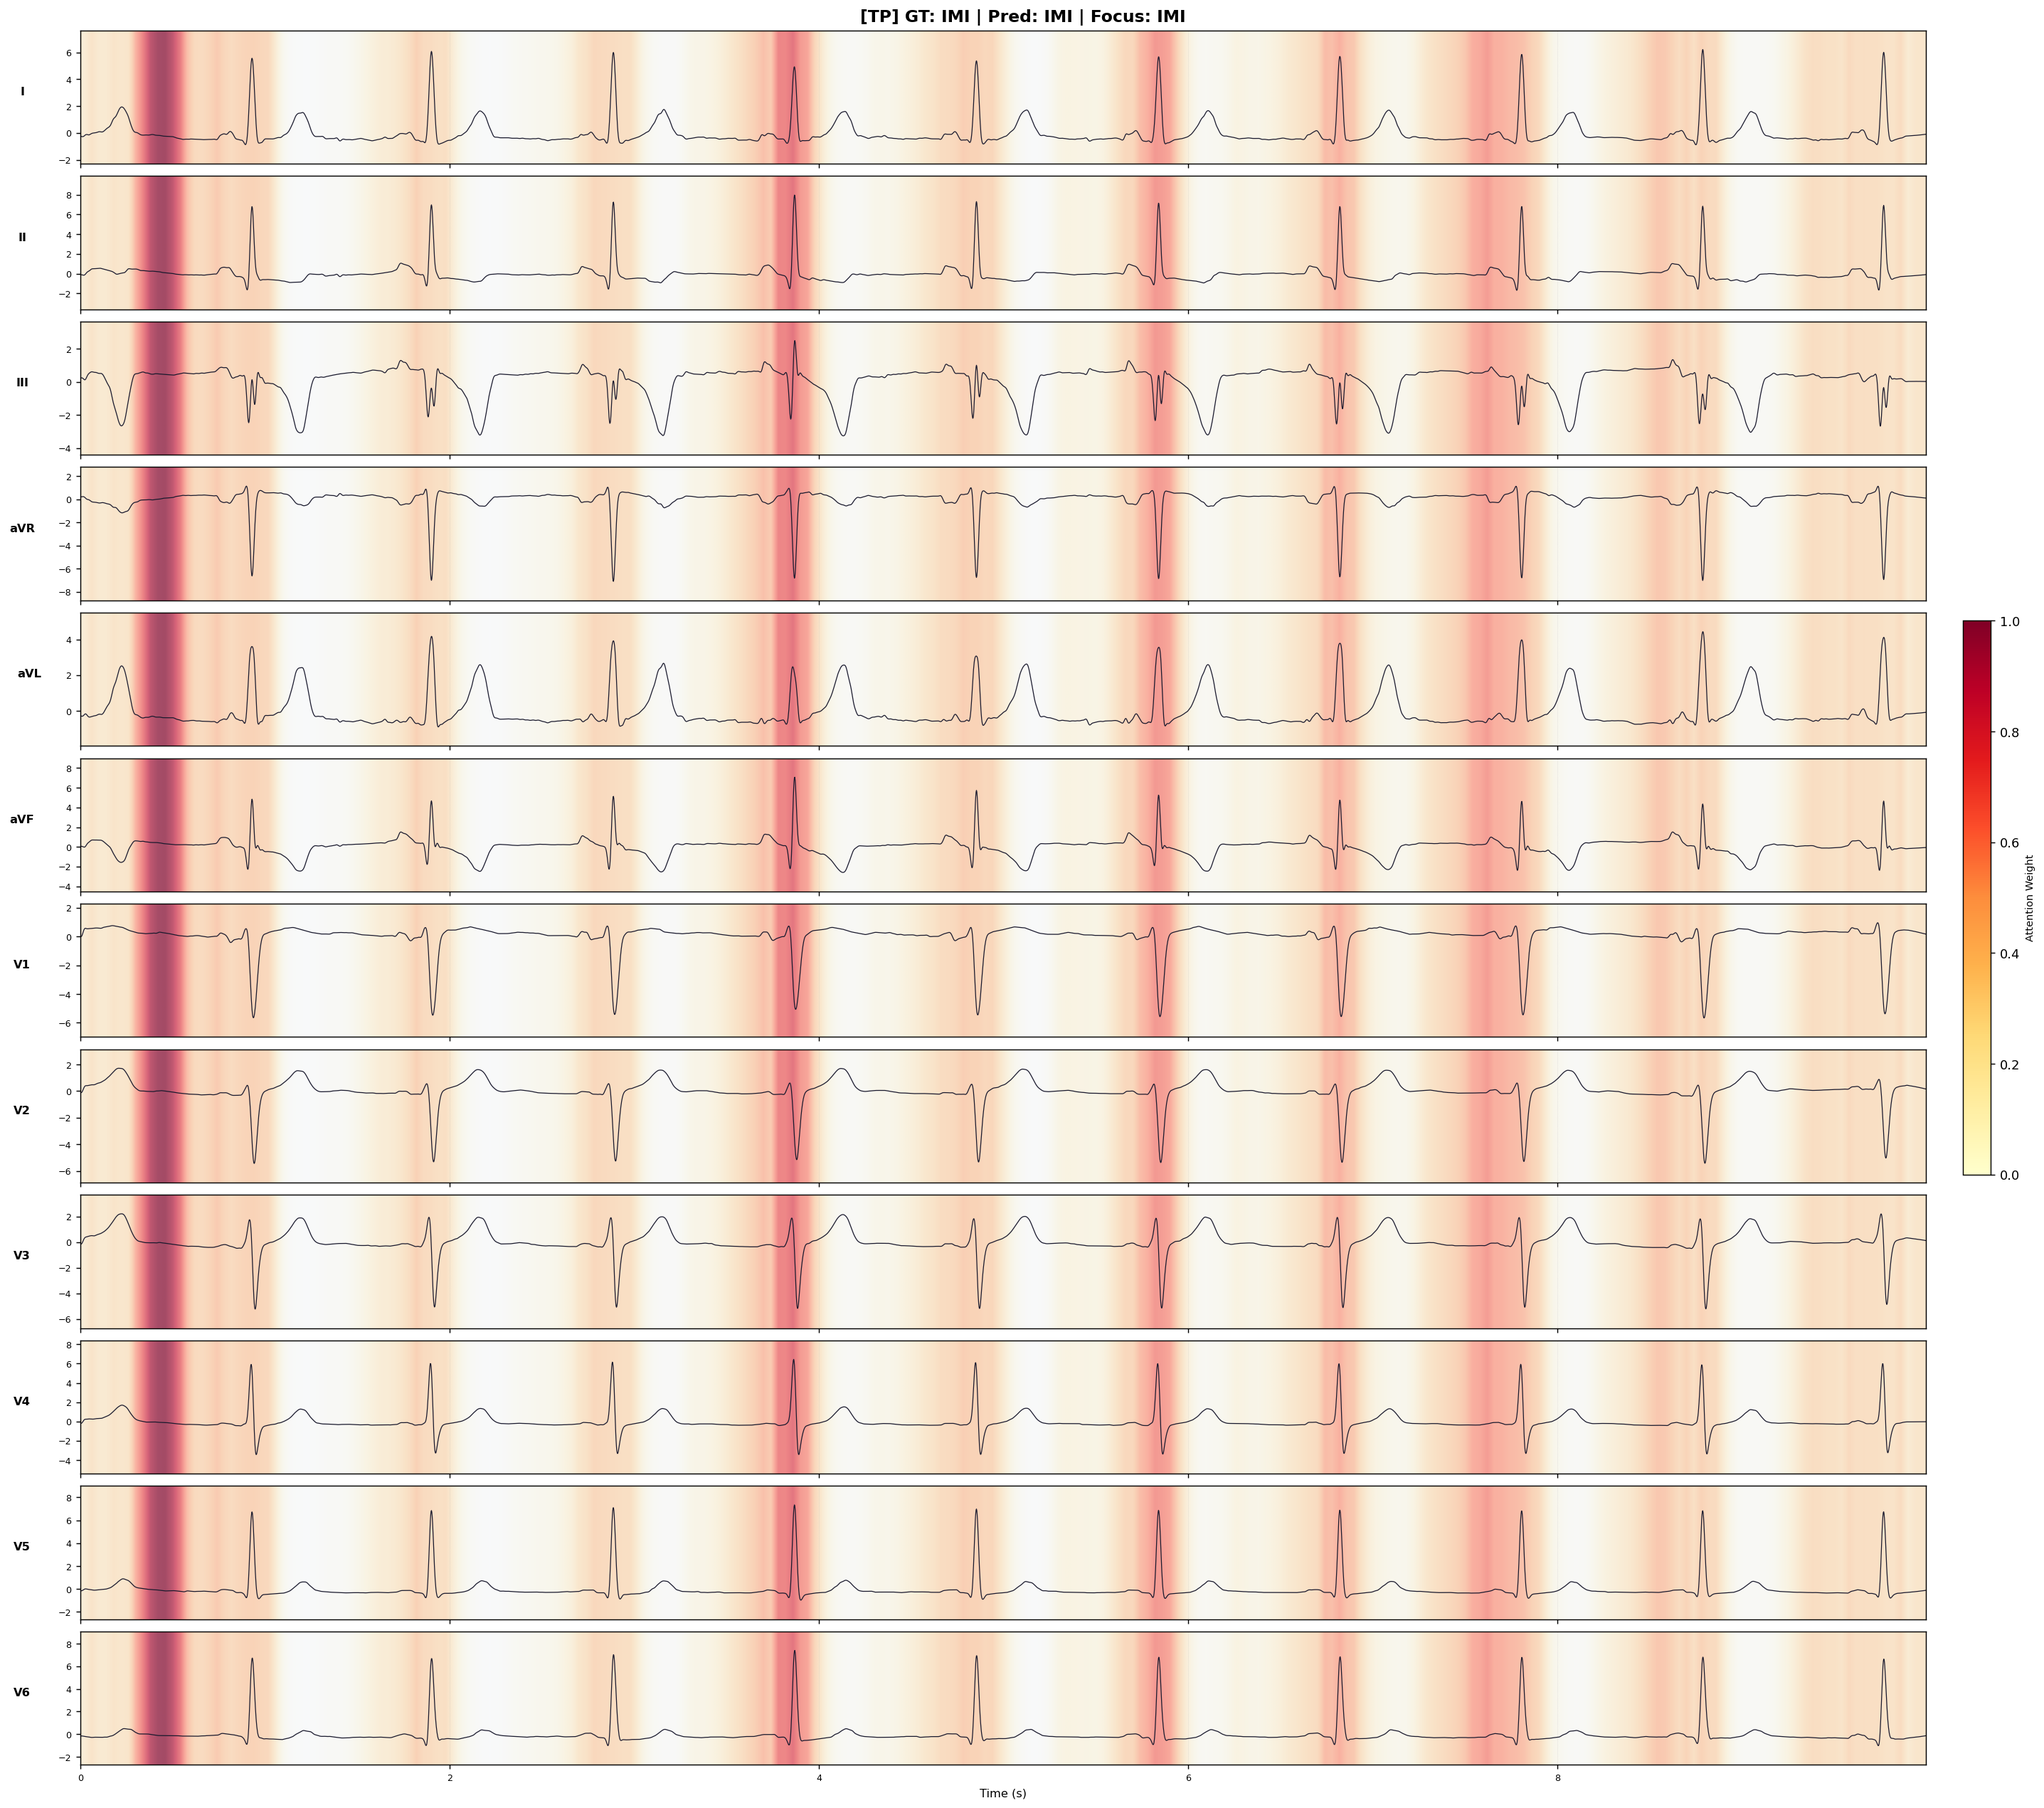
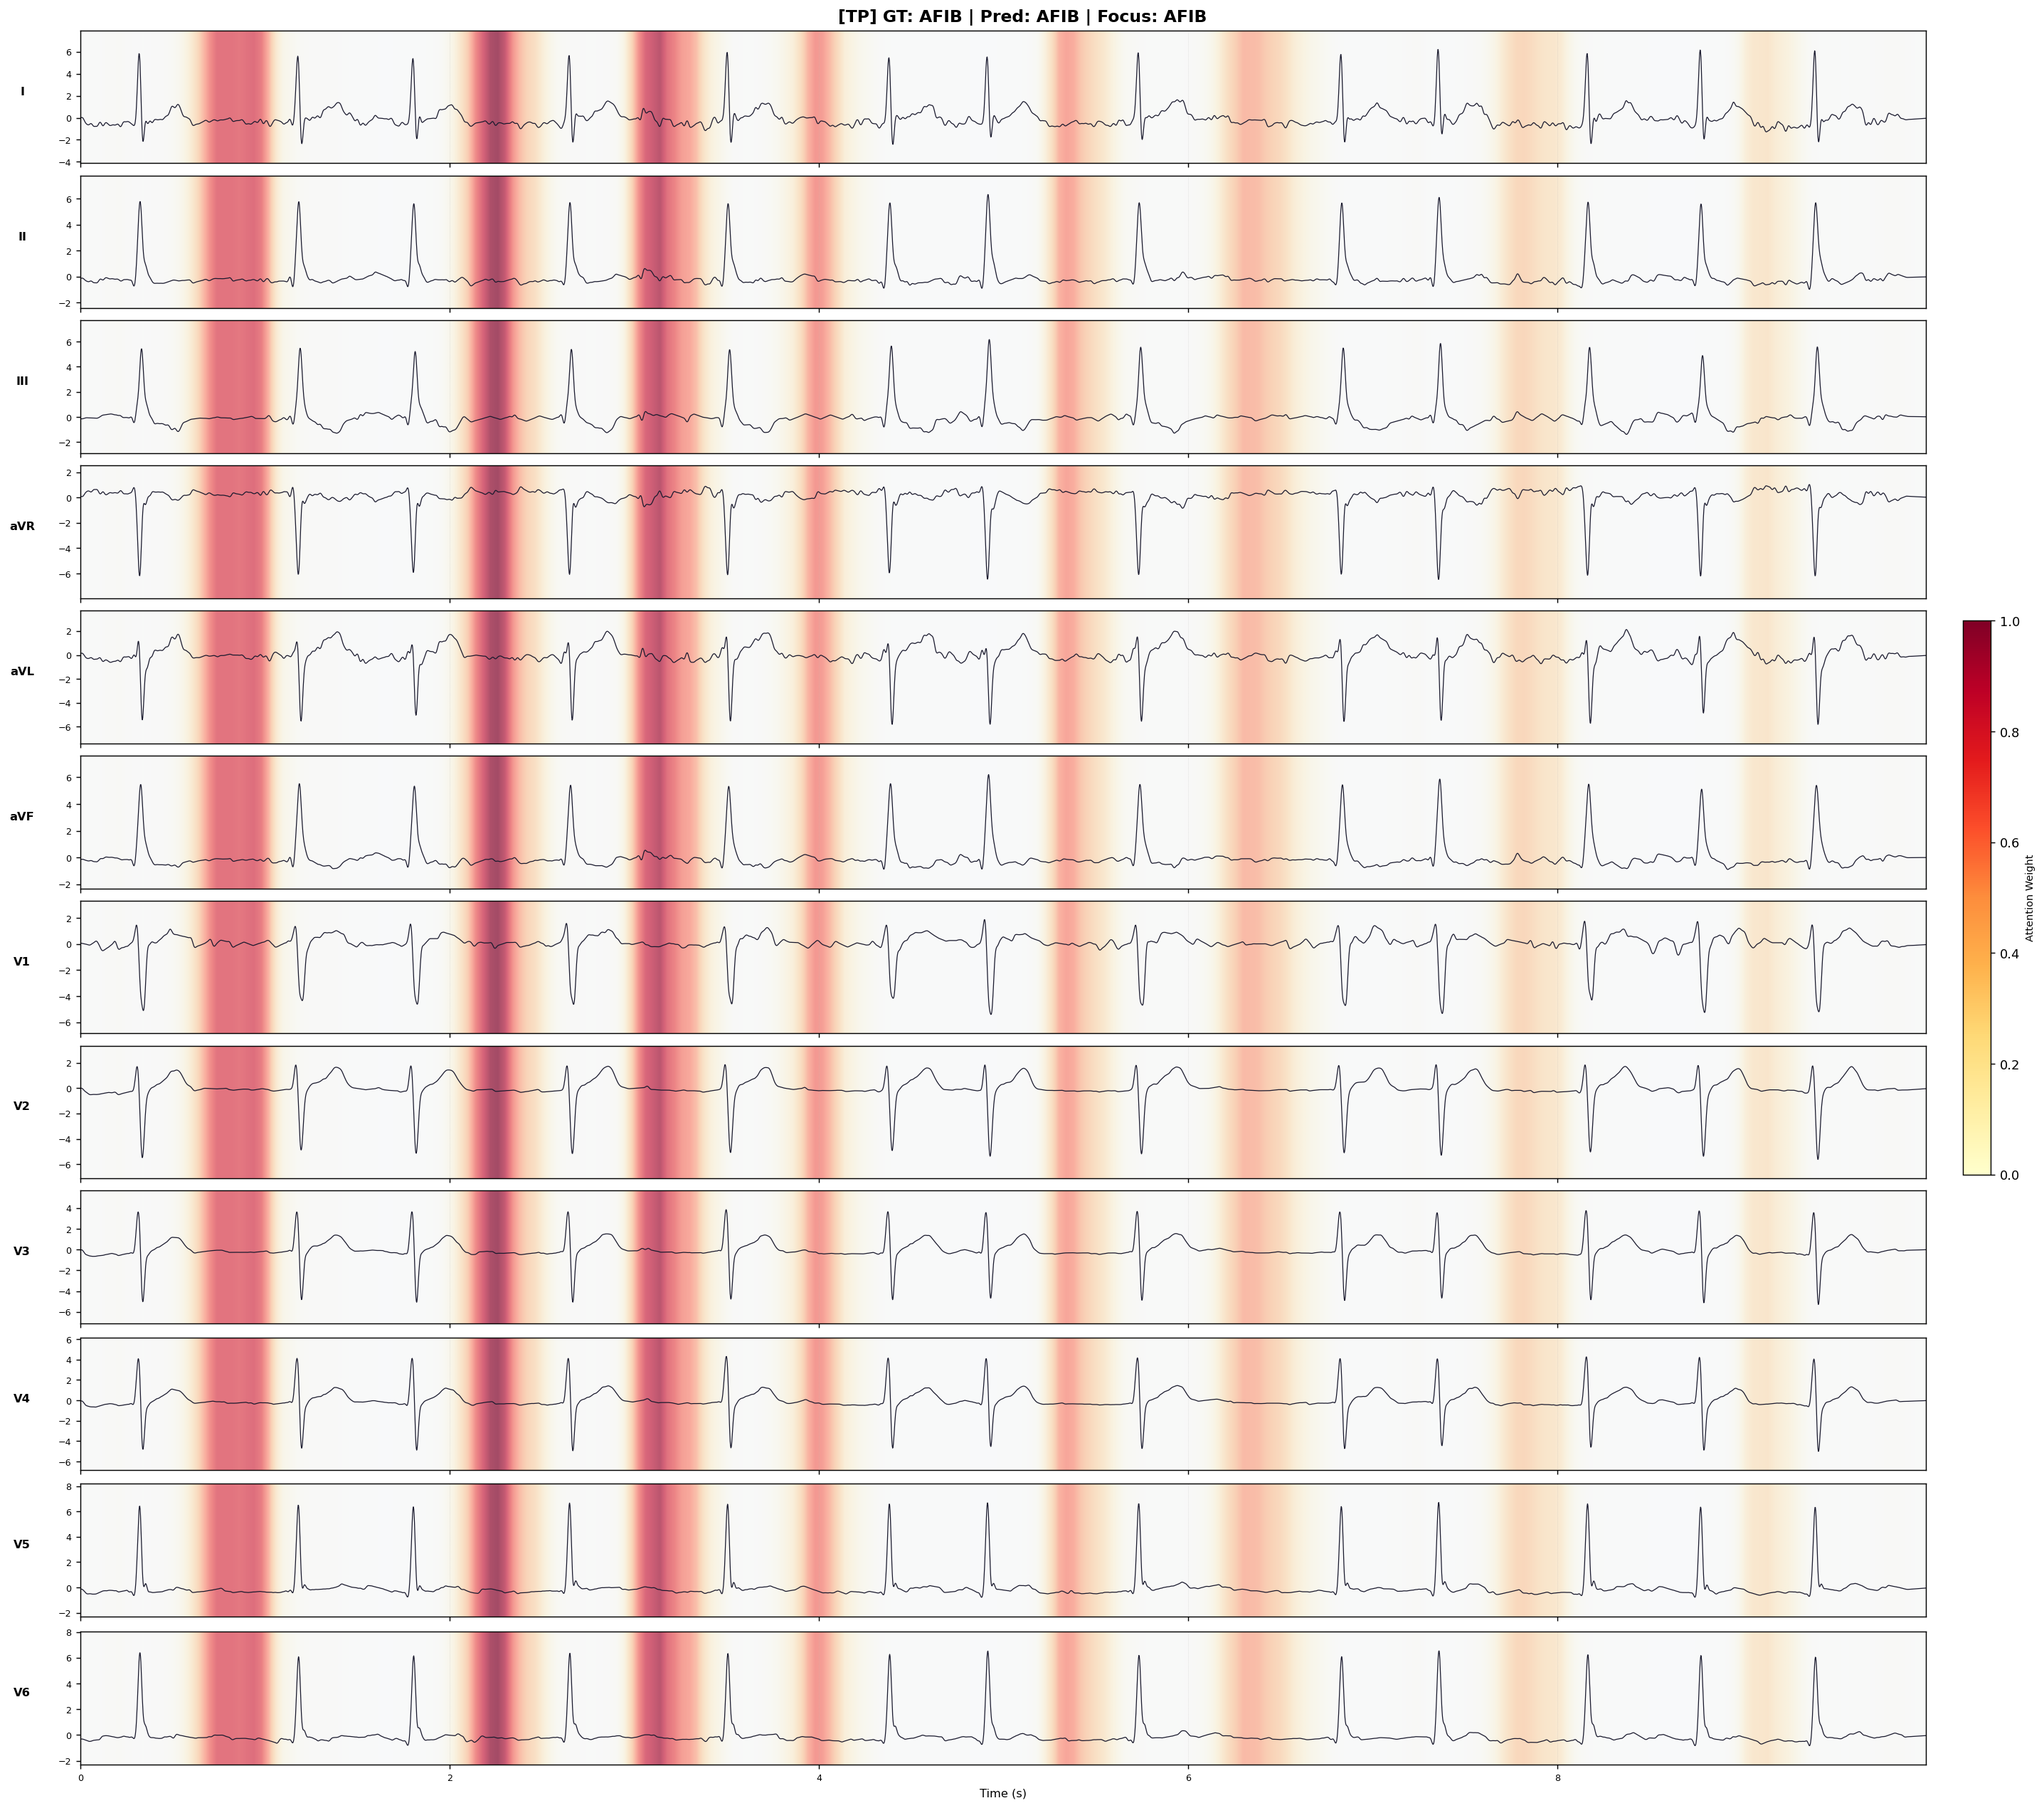
docs: update XAI sample image to Atrial Fibrillation (AFIB) case

diff --git a/README.md b/README.md
@@ -107,7 +107,7 @@ The table below presents the detailed performance of our best configuration (See
 
 The XAI module extracts attention weights from the Transformer Encoder to generate heatmaps, highlighting the specific ECG segments the model focuses on for its predictions.
 
-Example of an attention heatmap generated for an Inferior Myocardial Infarction detection case (True Positive):
+Example of an attention heatmap generated for an Atrial Fibrillation (AFIB) detection case (True Positive):
 
 <img src="assets/xai_heatmap_example.png" alt="XAI Heatmap Example" width="800">
 
